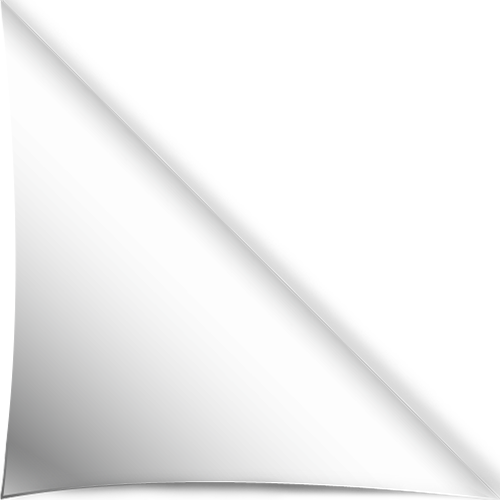
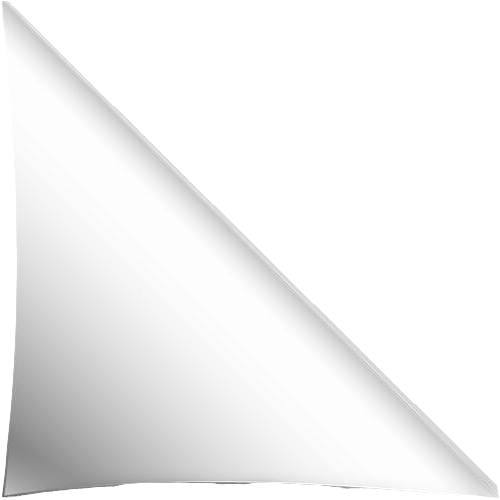
rm login.css and merge wade UI change

diff --git a/index.html b/index.html
@@ -2,7 +2,7 @@
 	<head>
 		<title>知識井 Knowledge Sharp</title>
 		<meta http-equiv="Content-Type" content="text/html; charset=utf-8">
-		<link rel="stylesheet" type="text/css" href="morecss/login.css">
+		<link rel="stylesheet" type="text/css" href="morecss/index.css">
 		<script type="text/javascript" src="http://code.jquery.com/jquery-latest.min.js"></script>
 		<style type="text/css">
 * {
@@ -15,8 +15,8 @@
 }
 #ad img, #ad .adBody {
 	position: absolute;
-	width: 105px;
-	height: 105px;
+	width: 130px;
+	height: 130px;
 	right: 0;
 	top: 0;
 }
@@ -35,41 +35,41 @@
 			// 先停止未完成的動畫後再進行新的動畫
 			// 圖片放大展示
 			$("a img, a .adBody", this).stop().animate({
-					width: 500,
-					height: 500
+					width: 720,
+					height: 720
 				}, 500);
 
 		}, function(){	// 當滑鼠移出時..
 			// 先停止未完成的動畫後再進行新的動畫
 			// 圖片恢復原狀
 			$("a img, a .adBody", this).stop().animate({
-					width: 105,
-					height: 105
+					width: 130,
+					height: 130,
 				}, 200);
 		});
 	});
 </script>
 	</head>
-	<body bgcolor="#00cc99">
+	<body>
+	<div id="header">
+	
 	    <script src="http://code.jquery.com/jquery.js"></script>						<!-- jQuery source-->		
 		<script src="morejs/login.js"></script>
-
-		<div id="logo"><img src="picture/logo.png" width="250" height="250"></div>
-				<div id="ad">
-		<a href="http://www.wowgame.tw">
-			<img src="picture/peel2.png" alt="WOWGame 讓你挖不完!" />
+	
+		<div id="ad">
+		<a>
+			<img src="picture/peel.png" alt="WOWGame 讓你挖不完!" />
 			<span class="adBody"></span>
 		</a>
 		</div>
+		</div>
+		
 		<div class="container">
-
-				<br><br><br>			<!--space on top-->
-				
-			<!--Login Form-->
 			<div class="row">		
-				<br><br>
-				<center><table>
+				<table>
 				<tr><td>
+				<div id="logo"><img src="picture/logo.png" width="250" height="250"></div>
+				</td><td>
 				<iframe id="prezi" src="http://prezi.com/embed/gnewodqbnxlq/?bgcolor=ffffff&amp;lock_to_path=1&amp;autoplay=0&amp;autohide_ctrls=0&amp;features=undefined&amp;disabled_features=undefined" width="550" height="400" frameBorder="0"></iframe>
 				</td><td>
 				<div id="loginForm">
@@ -102,19 +102,19 @@
 							</div>						
 						</form>
 						<br><br><br>
+						<div id="text">
+						<font color="Maroon"><h4><b>首次登入不需輸入密碼</b></h4></font>
+						<font color="Navy"><h5><b>學生請輸入學號</b></h5></font>
+						<font color="Navy"><h5><b>教師與系辦人員請...</b></h5></font>
+						</div>
 					</div>					
-				</div></td></tr></table></center>
+				</div>
+				
+						
+				</td></tr></table>
 			</div>
 			
-			<div class="row">
-				<div class="col-lg-10">
-					<div class="form-group">
-						<center><font color="Maroon"><h4><b>首次登入不需輸入密碼</b></h4></font></center>
-						<center><font color="Navy"><h5><b>學生請輸入學號</b></h5></font></center>
-						<center><font color="Navy"><h5><b>教師與系辦人員請...</b></h5></font></center>
-					</div>
-				</div>
-			</div>
+			
 			
 			<br><br><br>
 			<!--footer information-->

diff --git a/morecss/index.css b/morecss/index.css
@@ -1,8 +1,12 @@
-
+#header{
+height: 130px;
+width: auto;
+background-color: white;
+}
 #logo{
-	width: 400px;
+  width: auto;
   float: left;
-	margin: auto;
+  padding: 0px 20px 0px 20px;
 }
 
 .hero-unit {
@@ -44,22 +48,25 @@
   font-size: 20px;
 }
 #lostps{
-  //color: #AAAAAA;
+  /*color: gray;*/
+  font-size: 20px;
 }
 
 #loghero-unit{
-  height: 150px;
-  width: 350px;
+  height: 340px;
+  width: 300px;
 }
 
 .container{
-  width:760px;
-  margin: auto;
+  background-color: rgba(0 ,204 ,153,0.5);
+  width:auto;
+  margin: 0px;
+  padding: 0px;
 }
 
 #loginForm{
   width: 500px; 
-  margin: auto;
+  margin-top: 30px;
 }
 
 #copyright{
@@ -72,6 +79,7 @@
 }
 
 #prezi{
+margin-top: 0px;
 margin-right: 20px;
 }
 
@@ -80,8 +88,18 @@ a{
   color: darkblue;
 }
 
+a:hover{
+	text-decoration:none;
+	color: blue;
+}
+
 a:visited{
 	text-decoration:none;
 	color: darkblue;
 }
 
+#text{
+font-size: 20px;
+line-height: 1em;
+
+}
